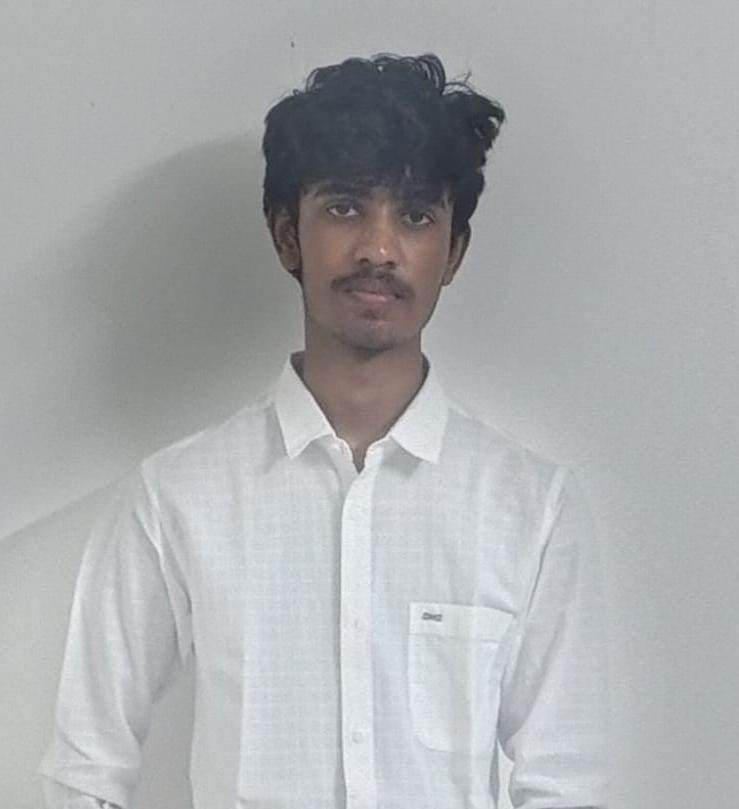
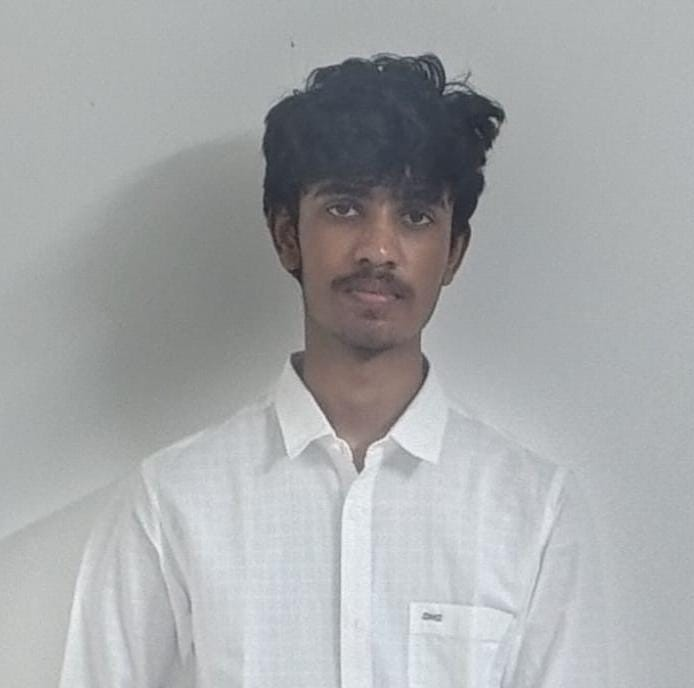
Updated team member

diff --git a/src/components/Members.jsx b/src/components/Members.jsx
@@ -47,7 +47,7 @@ const groupedMembers = membersData.reduce((acc, member) => {
   return acc;
 }, {});
 
-// Auto-scroll container
+// 🔥 Auto-scroll container
 function AutoScrollContainer({ children }) {
   const containerRef = useRef(null);
   const [paused, setPaused] = useState(false);
@@ -80,7 +80,7 @@ function AutoScrollContainer({ children }) {
   );
 }
 
-// Single member card
+// 🔥 Member Card (Images with SAME height)
 function MemberCard({ member, cardBg, idx }) {
   return (
     <motion.div
@@ -91,7 +91,13 @@ function MemberCard({ member, cardBg, idx }) {
       transition={{ duration: 0.5, delay: idx * 0.05 }}
       viewport={{ once: true }}
     >
-      <img src={member.image} alt={member.name} className="h-56 w-full object-cover rounded-t-lg" />
+      <div className="w-full h-80 overflow-hidden flex justify-center items-center">
+        <img
+          src={member.image}
+          alt={member.name}
+          className="w-full h-full object-cover"
+        />
+      </div>
       <div className="p-4 flex flex-col items-center text-center">
         <h3 className="font-semibold text-lg">{member.name}</h3>
         <p className="text-sm text-gray-500">{member.position}</p>
@@ -100,28 +106,27 @@ function MemberCard({ member, cardBg, idx }) {
   );
 }
 
-// Members Page
+// 🔥 Members Page
 export default function MembersPage() {
   const { theme } = useContext(ThemeContext);
   const navigate = useNavigate();
 
-  const containerBg = theme === "dark"
-    ? "bg-gradient-to-r from-gray-900 via-gray-800 to-gray-900"
-    : "bg-gradient-to-r from-white via-blue-50 to-white";
+  const containerBg =
+    theme === "dark"
+      ? "bg-gradient-to-r from-gray-900 via-gray-800 to-gray-900"
+      : "bg-gradient-to-r from-white via-blue-50 to-white";
   const cardBg = theme === "dark" ? "bg-gray-800 text-gray-100" : "bg-white text-gray-900";
 
-  // Scroll to top on mount
   useEffect(() => {
     window.scrollTo({ top: 0, behavior: "smooth" });
   }, []);
 
-  // Back to footer (navigate first, then scroll)
   const handleBackToFooter = () => {
     navigate("/", { replace: false });
     setTimeout(() => {
       const footer = document.querySelector("footer");
       if (footer) footer.scrollIntoView({ behavior: "smooth" });
-    }, 200); // wait for home page render
+    }, 200);
   };
 
   return (
